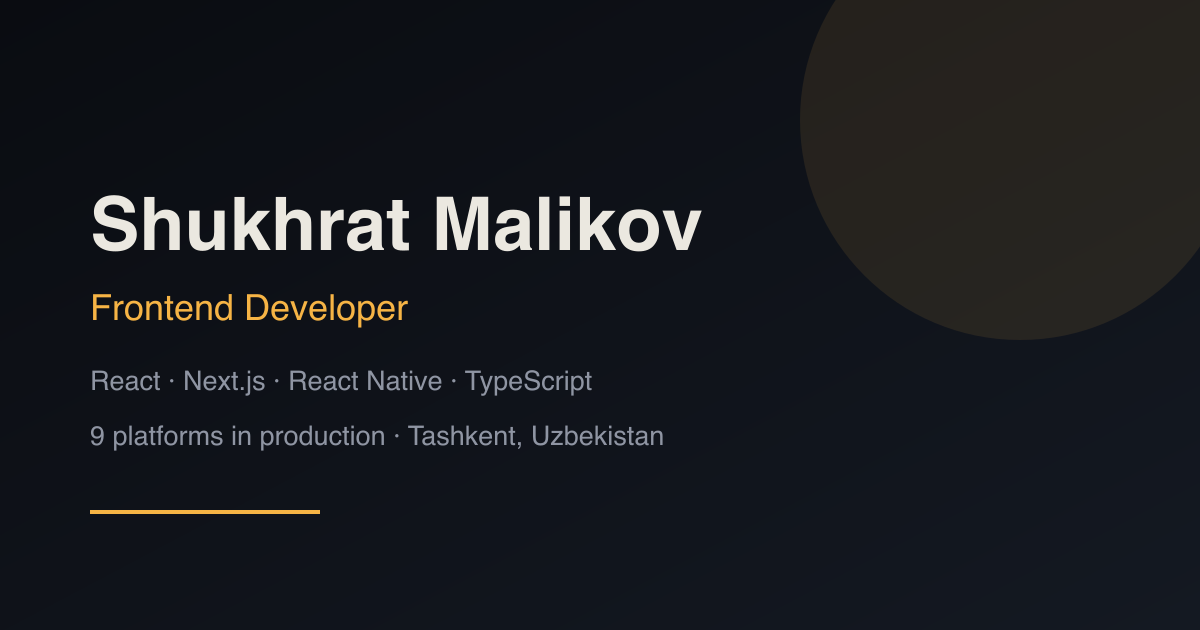
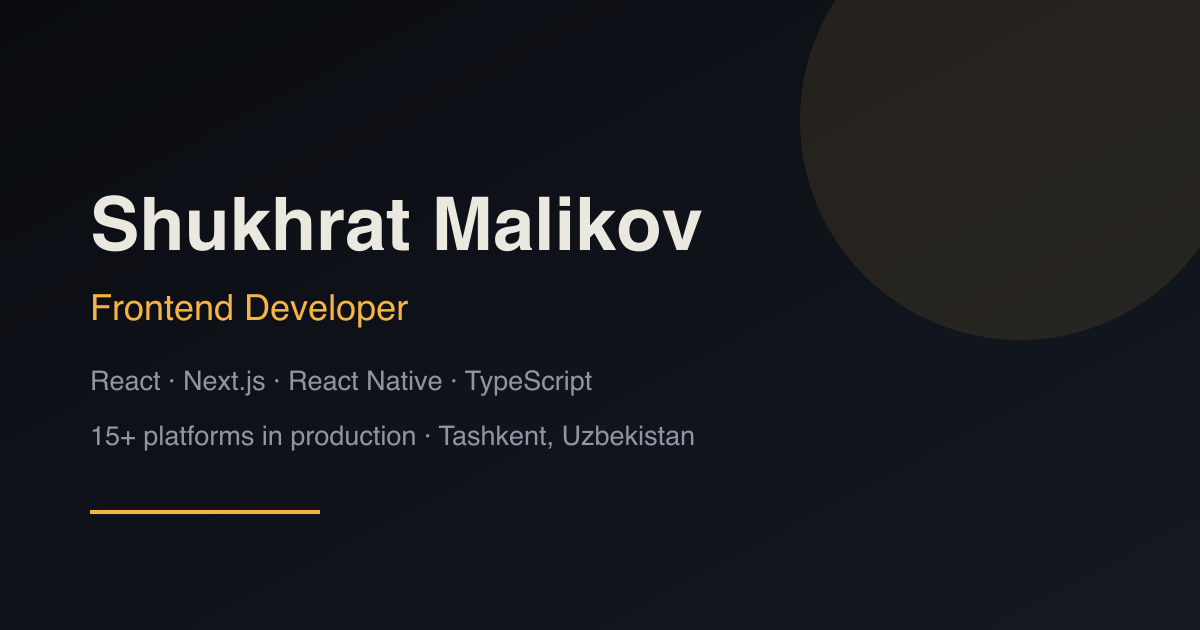
Say 15+ platforms in the share card and meta description too
The hero stat and the experience bullet were updated to 15+, but the
Open Graph description and the og.png share image still said 9 — so every
link preview on LinkedIn, Telegram or WhatsApp undercounted the work.

Changed region(s): [[0.0617, 0.6635, 0.5858, 0.7238]]

diff --git a/index.html b/index.html
@@ -19,7 +19,7 @@
         <meta property="og:title" content="Shukhrat Malikov — Frontend Developer" />
         <meta
             property="og:description"
-            content="React, Next.js, React Native and TypeScript. 9 production platforms, full path from Figma to Docker and CI/CD."
+            content="React, Next.js, React Native and TypeScript. 15+ production platforms, full path from Figma to Docker and CI/CD."
         />
         <meta property="og:image" content="https://malikovsh.vercel.app/og.png" />
         <meta property="og:url" content="https://malikovsh.vercel.app/" />
